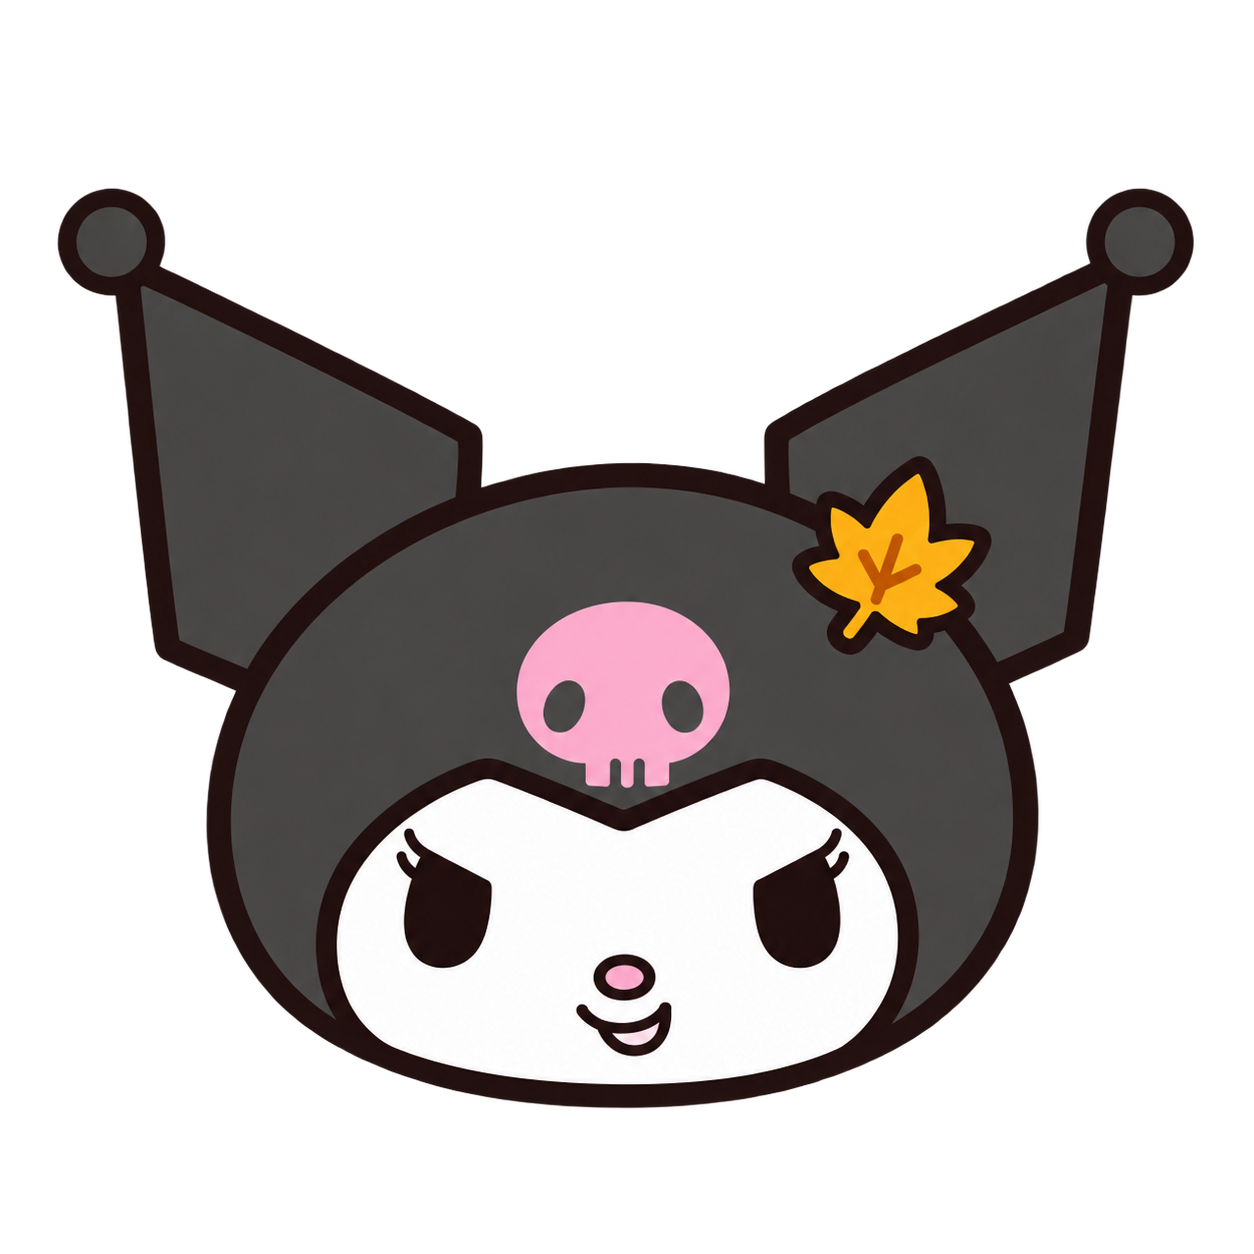
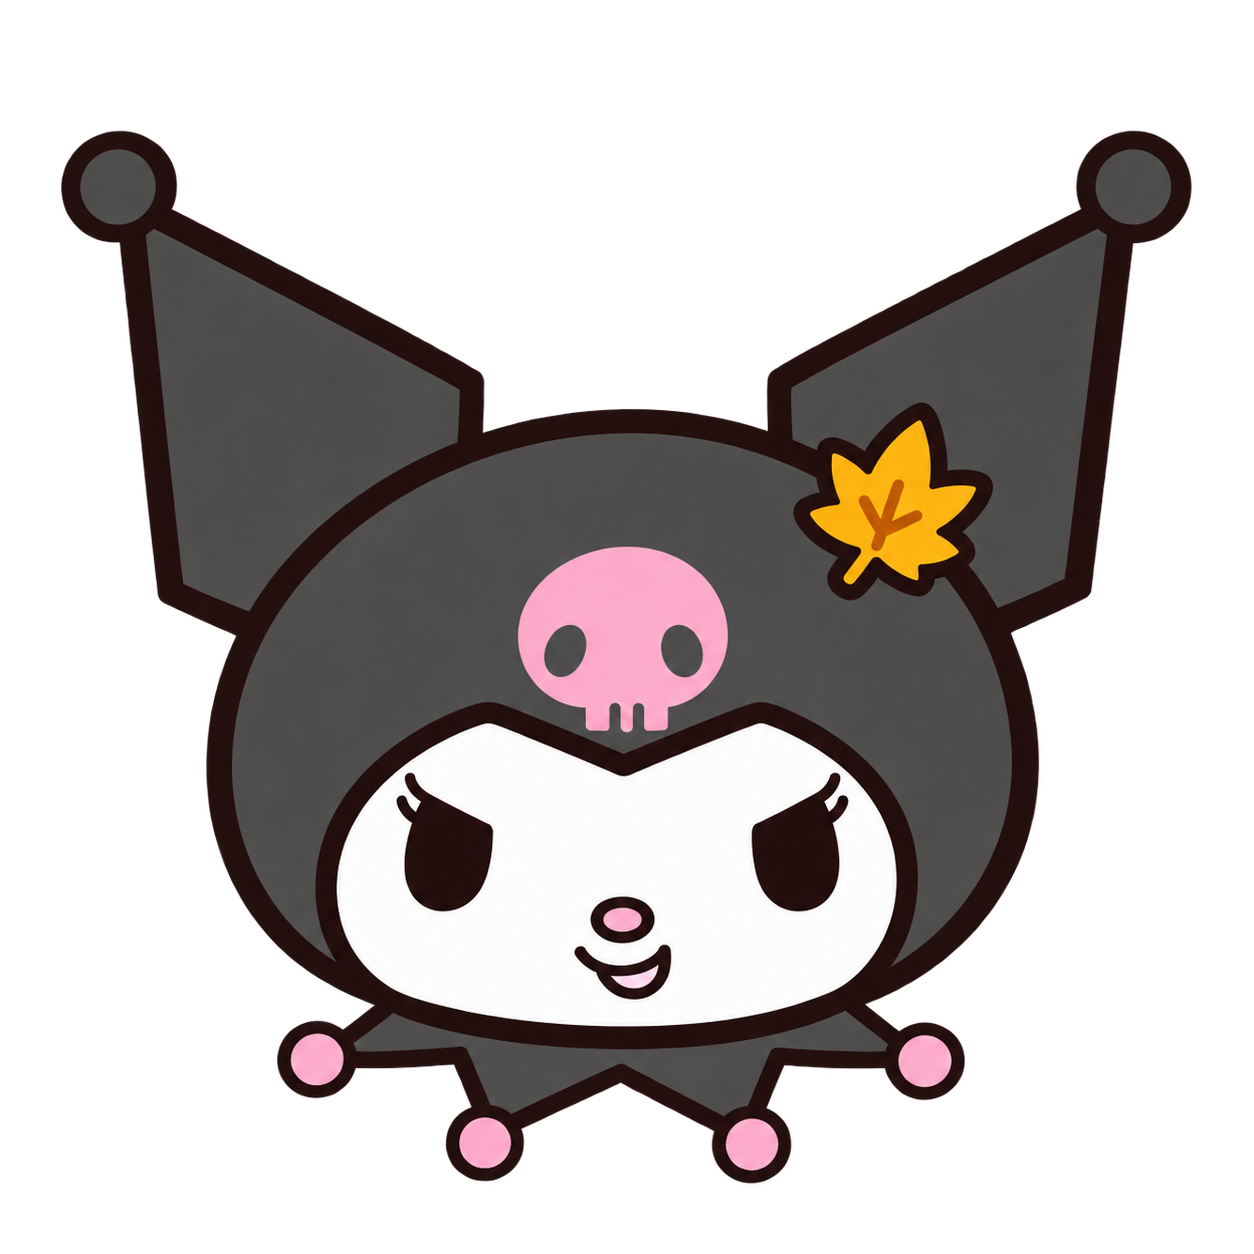
補上酷洛米帽子花邊並將蓋章向右旋轉十五度

Changed region(s): [[0.0311, 0.0933, 0.9641, 0.9641]]

diff --git a/styles.css b/styles.css
@@ -407,14 +407,14 @@ svg.live-weather-icon { color: var(--forest); stroke: currentColor; fill: none; 
 .stamp-button { position: absolute; top: 8px; right: 8px; width: 56px; height: 56px; min-height: 44px; padding: 2px; display: flex; flex-direction: column; align-items: center; justify-content: center; gap: 1px; border: 1.5px dashed var(--coffee); border-radius: 50%; color: var(--coffee); background: var(--surface); cursor: pointer; font: inherit; font-size: calc(15px * var(--fs, 1)); }
 .stamp-button > svg { width: 20px; height: 20px; fill: none; stroke: currentColor; stroke-width: 1.7; stroke-linecap: round; stroke-linejoin: round; }
 .stamp-button[aria-pressed="true"] { border-color: transparent; background: var(--surface); color: var(--forest); }
-.stamp-button > .stamp-art { width: 52px; height: 52px; object-fit: contain; display: block; }
+.stamp-button > .stamp-art { width: 52px; height: 52px; object-fit: contain; display: block; transform: rotate(15deg); transform-origin: center; }
 .stamp-button:focus-visible { outline: 3px solid var(--forest); outline-offset: 3px; }
 .stamp-button.just-stamped > .stamp-art { animation: stamp-press .25s ease-out; }
 .visit-progress { width: fit-content; padding: 8px 12px; background: var(--maple-soft); color: var(--forest); border-radius: 12px; font-size: calc(15px * var(--fs, 1)); }
 .visit-storage-note { color: var(--coffee); font-size: calc(15px * var(--fs, 1)); line-height: 1.6; }
 .visit-label { color: var(--forest); }
 .map-pin.is-visited { outline: 3px dashed var(--maple-yellow); outline-offset: 2px; }
-@keyframes stamp-press { from { transform: scale(1.2) rotate(-12deg); opacity: .3; } to { transform: scale(1) rotate(0); opacity: 1; } }
+@keyframes stamp-press { from { transform: scale(1.2) rotate(3deg); opacity: .3; } to { transform: scale(1) rotate(15deg); opacity: 1; } }
 @media (prefers-reduced-motion: reduce) { .stamp-button.just-stamped > .stamp-art { animation: none; } }
 
 .stop-card h3 { font-size: calc(18px * var(--fs, 1)); }

diff --git a/README.md b/README.md
@@ -49,4 +49,4 @@
 
 Leaflet 1.9.4 放在 `vendor/leaflet/`，採 BSD-2-Clause，授權檔同目錄；不透過 CDN 載入程式。底圖保留 OpenStreetMap 來源標示。首頁移除自動生成的標語，`AGENTS.md` 與 `DESIGN.md` 已加入不產生標語的規範。
 
-每日行程卡片可蓋章、取消蓋章，完成圖案改用使用者提供的酷洛米原圖編輯：去除身體與背景，加入楓葉髮飾，存放於 `assets/stamps/kuromi-maple.png`。`visits.js` 依旅程 ID 與行程項目 ID 將紀錄保存在 localStorage，與行前清單分開；無法保存時顯示提示。地圖以外框及「已蓋章」文字標示完成地點。
+每日行程卡片可蓋章、取消蓋章，完成圖案改用使用者提供的酷洛米原圖編輯：去除身體與背景，保留頭下方的尖角花邊與粉紅圓球，加入楓葉髮飾，蓋章後順時針旋轉 15 度，存放於 `assets/stamps/kuromi-maple.png`。`visits.js` 依旅程 ID 與行程項目 ID 將紀錄保存在 localStorage，與行前清單分開；無法保存時顯示提示。地圖以外框及「已蓋章」文字標示完成地點。

diff --git a/DESIGN.md b/DESIGN.md
@@ -65,4 +65,4 @@
 4. iPhone Safari 驗證安全區與 sheet，無實機須說明限制。
 5. 新功能以長輩能理解、戶外能讀清楚為優先。
 
-- 行程蓋章使用使用者提供的酷洛米原圖編輯成透明 PNG，僅保留頭部並加入相同卡通風格楓葉髮飾；資產放在 `assets/stamps/kuromi-maple.png`。蓋章按鈕固定在卡片右上角 8px、56×56px，圖案 52px；標題預留空間，不遮擋文字。提供取消、每日進度與儲存失敗提示，減少動態模式停用蓋章動畫。
+- 行程蓋章使用使用者提供的酷洛米原圖編輯成透明 PNG，保留頭部、頭下方的尖角花邊與四顆粉紅圓球，加入相同卡通風格楓葉髮飾；資產放在 `assets/stamps/kuromi-maple.png`。蓋章按鈕固定在卡片右上角 8px、56×56px，圖案 52px、順時針旋轉 15 度；標題預留空間，不遮擋文字。提供取消、每日進度與儲存失敗提示，減少動態模式停用蓋章動畫。
